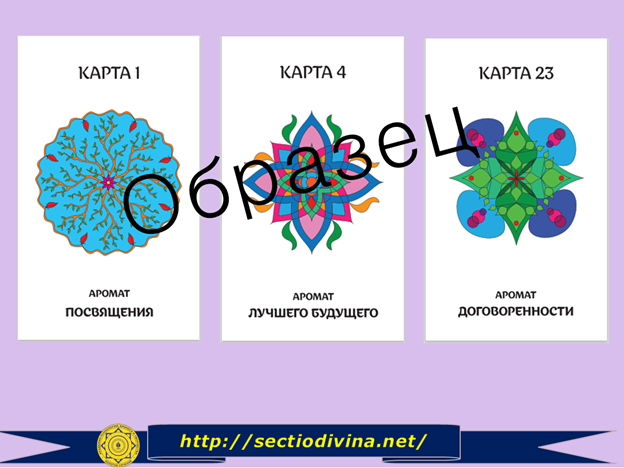
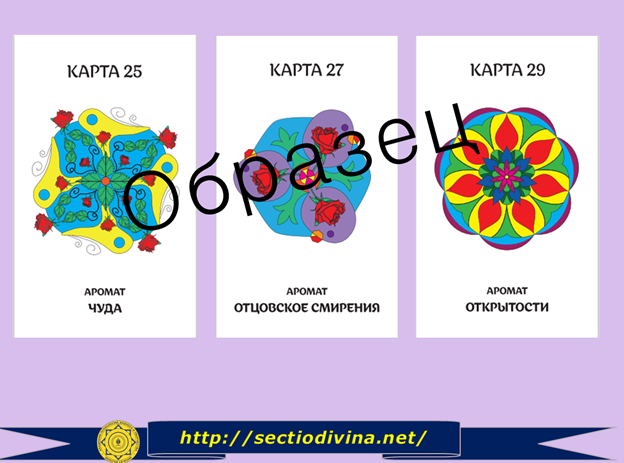
обновил код

diff --git a/index.html b/index.html
@@ -53,10 +53,17 @@
       <div class="position-card">
         <div class="info infos1" id="info1">
           <h1 class="main-text1">Карта № 1</h1>
-          <h2 class="main-text2">Аромат посвящения.</h2>
+          <h2 class="main-text2">Аромат Чуда.</h2>
           <p class="cart1">
-            * Появление этой карты в раскладе говорит о том, что вам сейчас необходимо понять и осознать куда направлено ваше внимание, о чем вы думаете, насколько созидательны и позитивны ваши мысли, эмоции, действия?
-* Неосознанных людей легче увлечь иллюзиями и повести по ложному пути. Стремитесь ли вы получать истинные знания, прислушиваетесь ли к своей интуиции и внутренней мудрости? 
+            *Появление этой карты в раскладе говорит о том, что вы сейчас находитесь в состоянии, которое заставляет вас необоснованно жаловаться на происходящее. Вы не доверяете миру и его возможностям? Проанализируйте, как часто в последнее время, вы были недовольны своей жизнью? Кого вы вините в своих неудачах? Не стало ли такое поведение для вас определенной привычкой?
+* Как не растеряться в сложные жизненные моменты? Конечно, легче всего роптать, но попробуйте сконцентрироваться на решении проблемы! Прежде всего:
+- Перестаньте искать виноватых. Возьмите целиком и полностью ответственность за возникшую ситуацию на себя.
+- Думайте позитивно! Негативные мысли и эмоции разрушают вас и наносят только вред.
+- Живите по принципу - появилась трудность (задача), значит есть и ее решение.
+- Избегайте людей, которые постоянно недовольны. 
+- Верьте в себя, в свои собственные силы и возможности. И тогда волшебство обязательно случиться.
+*Помните о том, что все наши жалобы на то, что жизнь сложна и невыносима, на то, что, мы чего-то лишены, появляются от недостатка благодарности за то, что мы имеем.
+
             <div class="number-cart">
               Пишите номер карты нам в ответном письме и получите доступ к медитации на платформе геткурс.
             </div> 
@@ -70,11 +77,10 @@
   
         <div class="info infos1" id="info2">
           <h4 class="main-text3">Карта № 2</h4>
-          <h5 class="main-text4">Аромат лучшего будущего.</h5>
+          <h5 class="main-text4">Аромат отцовского смирения.</h5>
           <p class="cart2">
-            * Появление этой карты в раскладе говорит о том, что в вашей жизни есть та область, где вы испытываете страх потерять определенный комфорт и сейчас вы можете поработать с этим страхом, который мешает вам двигаться вперед. 
-* Проанализируйте, как давно вы стремились изменить что-либо в вашей жизни к лучшему? Считаете ли вы, что достойны этого лучшего?
-* Появляется ли у вас беспокойство, когда вы оказываетесь в выигрышной ситуации?  
+            * Появление этой карты в раскладе говорит о том, что сейчас пришло время разобраться с вашими привычками и установками, которые приводят к повторяющимся негативным событиям. Например, вы не можете найти общий язык с окружающими. Часто ссоритесь, обвиняя, конечно, не себя. Или на вашем пути нередко встречаются люди, которые вас предают. А, может быть, вы постоянно испытываете финансовые затруднения.  
+* Проще всего продолжать думать, что вы здесь ни при чем. Но, если сейчас вы читаете эти строки, значит вселенная предлагает вам шанс выхода из установок, привычек и шаблонов. Воспользуйтесь им. 
             <div class="number-cart">
               Пишите номер карты нам в ответном письме и получите доступ к медитации на платформе геткурс.
             </div> 
@@ -89,15 +95,11 @@
             Карта № 3 
           </h6>
           <h7 class="main-text6">
-            Аромат договоренности.
+            Аромат Открытости.
           </h7>
           <p class="cart3">
-            * Появление этой карты в раскладе говорит о том, что сейчас вам необходимо проявить искусство дипломатии в какой-то из сфер вашей жизни. Умеете ли вы договариваться? Знаете ли вы о правилах, помогающих договориться? Напомним, что для проведения успешных переговоров вам необходимо:
-            - Уважать своего собеседника, активно и внимательно его слушать;
-            - Придерживаться спокойного тона общения;
-            - Научится аргументировать свои предложения;
-            - «Не тащить одеяло на себя». Давать возможность высказаться и другой стороне;
-            - Понимать, что признавая только свою точку зрения, свою правоту, невозможно ни о чем договориться. Можно только «продавить» собственную позицию, тем самым загоняя проблему в угол.
+            * Появление этой карты в раскладе говорит о том, что сейчас вам необходимо понять, какая роль в вашей жизни мешает достижению вами каких-то желанных высот. Роль жертвы? А, может быть, вечного контролера? Человека, которому некогда заниматься собственной жизнью, потому что он слишком много времени и сил уделяет другим?
+            *Проанализируйте, насколько вы верите в себя? В свои способности, навыки, потенциал? Как часто вы пасуете перед трудностями, не веря в собственные силы?
             <div class="number-cart">
               Пишите номер карты нам в ответном письме и получите доступ к медитации на платформе геткурс.
             </div> 
